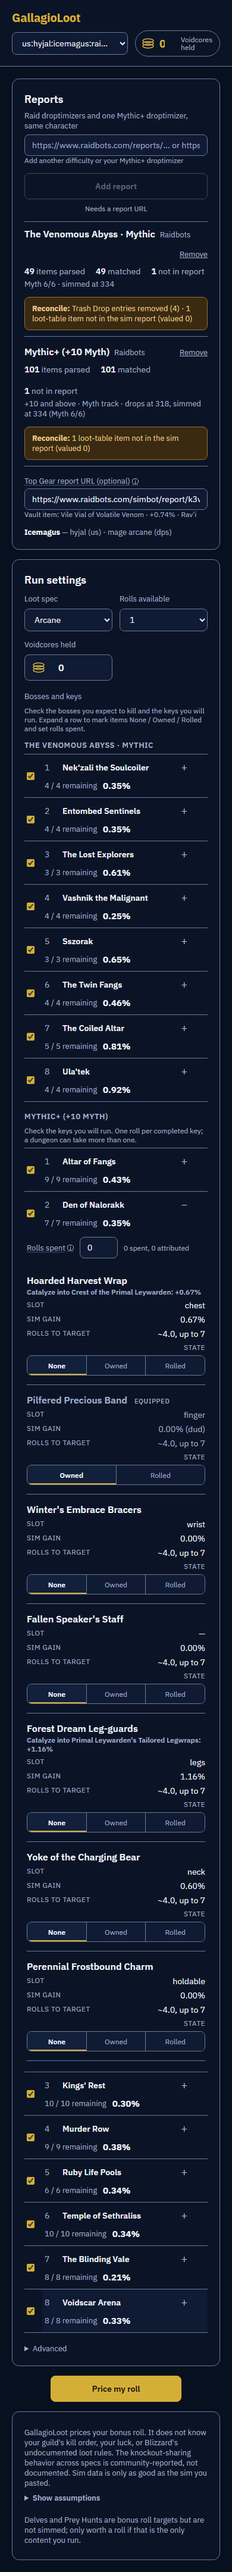
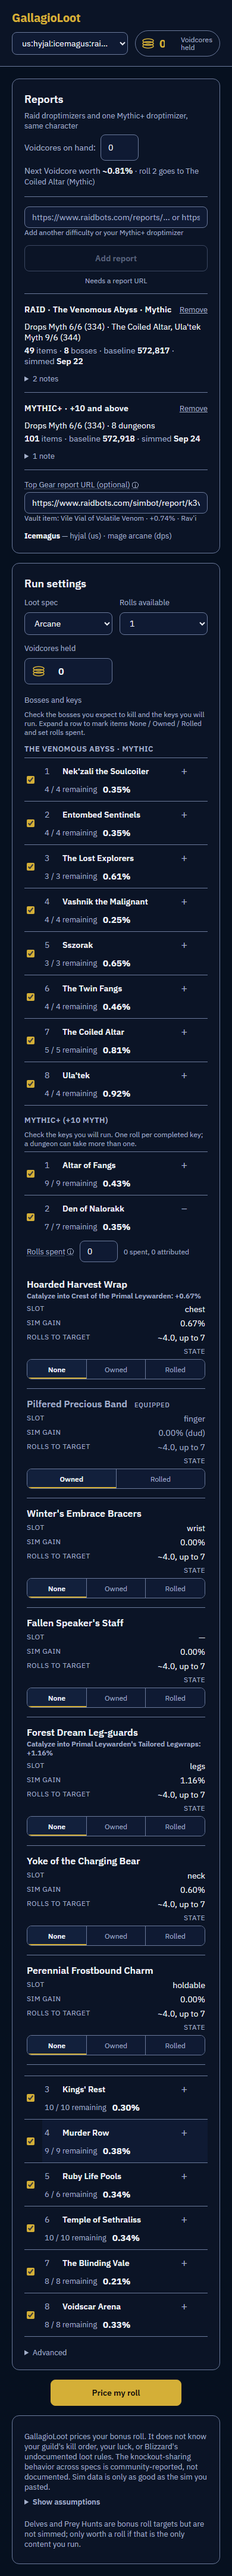
v2.08: design fixtures + shots (Reports panel 1280/390 layout assertions), live check for the new panel, docs

diff --git a/README.md b/README.md
@@ -204,6 +204,7 @@ type NormalizedReport = {
   contentType: 'raid' | 'dungeon' | 'other'
   difficulty: string
   baseline: number              // absolute dps/hps of the equipped set
+  simmedAt?: string             // ISO 8601 sim date: Raidbots data.json `Last-Modified` header (the payload has no date), QE Live `timeCreated`
   instanceId?: number
   instanceName?: string
   items: NormalizedItem[]
@@ -219,6 +220,7 @@ type NormalizedReport = {
     upgradeMax?: number         // (6)
     upgradeFullName?: string    // "Myth 6/6"
     atMaxUpgrade?: boolean      // false -> report gets a "not simmed at max upgrade" warning
+    upgradeLabelsByIlvl?: Record<string, string> // the report's own label per item level: { "334": "Myth 6/6", "344": "Myth 9/6" }
   }
 }
 
@@ -261,6 +263,8 @@ type NormalizedItem = {
 - Each dungeon becomes one roll target: `NormalizedItem.encounterId` = dungeon id, `instanceId` = `-1`, `encounterName` = dungeon name, `NormalizedReport.targetKind = 'mplus'`. This matches `/loot-table/-1`, which already returns the 8 dungeons as pseudo-encounters (80 items at Arcane). A single-dungeon Raidbots report (rows with a real positive dungeon id) is normalized to the same shape.
 - There is no key-level field anywhere except `itemLibrary[].overrides.difficulty` (an object on M+ reports, a plain string on raid reports): `{ name: "+10 Vault", keyLevels: [10, 999], itemLevelOverride: 318, ... }`. The report sims every item at the chosen upgrade step (`itemLibrary[].upgrade = { name: "Myth", level: 6, max: 6, fullName: "Myth 6/6", itemLevel: 334 }`), not the 318 drop level. The UI labels this "+10 (Myth)", never "Weekly10".
 - **Max upgrade**: every report is expected to be simmed at max upgrade of its track (anything below is treated as noise). `track.atMaxUpgrade` is false when any upgradeable itemLibrary entry has `level < max`, and the report gets a warning. QE Live reports carry no upgrade info (`track` undefined, no warning).
+- **Per-boss drop step (v2.08, verified on 6PTZ7TjgU8PdxJhZ97bMUa and a8URThoNZqEXDW3tBtavHq).** Drop ilvl is per target, read off the profileset rows (`summarizeDrops` in `src/core/drops.ts`: max row `ilvl` per encounter/dungeon; nothing is hardcoded per season). On the Mythic raid fixture six bosses' rows are all 334 and **The Coiled Altar and Ula'tek's are all 344**; the M+ fixture is 334 in all 8 dungeons. The label comes from the report's itemLibrary: the 334 entries carry `upgrade: { level: 6, max: 6, fullName: "Myth 6/6" }`; the 344 entries carry **no `upgrade` object**, only `overrides.itemLevel: "Myth 9"` (no `/max`). `parseTrackInfo` reads that label as a step too (a label with no max borrows the track's, so `upgradeLabelsByIlvl["344"] = "Myth 9/6"`), which is what keeps a step past max from being mis-parsed or tripping the "not at max upgrade" warning (9 >= 6); a label-only step below max (e.g. "Myth 3") still warns. The Heroic + Mythic pair is legal: the same items at 334 on the first six bosses, so near-identical EVs are correct, and each difficulty is its own target set with its own knockout state.
+- **Sim date (v2.08).** Neither Raidbots payload carries a date. `NormalizedReport.simmedAt` is the `Last-Modified` header of `data.json` (the file is written when the sim finishes; 6PTZ7 = Tue, 22 Sep 2026 20:14:38 GMT, a8URT = Fri, 25 Sep 2026 01:39:28 GMT), passed into the pure normalizer by the Worker. QE Live's payload has `timeCreated` (RFC 7231). The UI shows the date in the viewer's local timezone. `REPORT_CACHE_VERSION` is 3.
 
 ### QE Live `getUpgradeReport.php`
 
@@ -347,6 +351,8 @@ A hand-maintained, static table of all 40 current WoW specs (`{ specId, specName
 ---
 
 ## Decision engine
+
+**Next Voidcore (v2.08).** `nextRollValue(bossEvals, settings)` in `src/core/rank.ts` is the EV of ONE MORE roll this week beyond `settings.rollsAvailable`, under `recommend`'s allocation rules (deployable targets; a raid target takes one roll per week, a Mythic+ target repeats): the (N+1)th roll goes to the best target that can still take it, valued at that target's own EV (uniform draw, so every roll on a target is worth its mean). Null when no target can take another (e.g. every deployable raid boss holds a roll and no M+ target is in play). "Rolls currently available" is the Rolls available setting, not Voidcores held (the latter is display-only). The Reports panel shows it with a "Voidcores on hand" input bound to the same Voidcores-held setting.
 
 **Equipped gear (v2.06, corrected v2.07).** `NormalizedReport.equippedItemIds` (Raidbots only) lists the item ids equipped in the sim profile. A pool entry whose item id is in it gets `equipped: true`. It defaults to Owned (value-0 dud, still in the denominator, `autoOwned: true`) only when the sim does not show it as an upgrade: no sim row, or best delta (catalyst credit included) <= 0. With a positive delta the drop copy is the better one, so it keeps its value, defaults to None and gets `equippedUpgrade: true` (UI label "Equipped (lower ilvl)", all three states offered). The sim delta is the source of truth; no separate item-level comparison. A stored knockout entry always wins, and the default is never persisted. Matched by item id only -- no ring/trinket pair reasoning.
 

diff --git a/CLAUDE.md b/CLAUDE.md
@@ -40,4 +40,5 @@ Hard rules for the `web/` UI (Cloudflare Worker static site, see `web/CLAUDE.md`
 - Mythic+ droptimizers (aggregate instance -1, every row `-1/-1/...`) are attributed to dungeons via the itemLibrary sources join; each dungeon is a repeatable `mplus` target. Several reports (raid difficulties + one M+) can be ranked together (`src/core/targets.ts`, `src/core/reportSet.ts`); catalyst rows credit their source item at max(own, catalyzed). See README.md "Raidbots Mythic+ droptimizer" and "Decision engine".
 - **Curio is not a bonus-roll outcome** (Erick's Adventure Journal ruling, 2026-09-24; supersedes the earlier "Curio is one pool entry" rule): Ula'tek's Slumbering Coil Curio (tier seed 2895, `viaCurio` rows) can't be won with a bonus roll, so it is never a `PoolEntry` -- not in the pool, the denominator, best case, rolls-to-target or knockout (`src/core/pool.ts`, `src/core/curio.ts`). Catalyst credit for real items is unchanged. The web UI hides the curio row and notes why under Ula'tek's table; stored knockout entries that reference it are ignored on load and dropped on save.
 - **Equipped gear is auto-Owned only when it isn't a sim upgrade** (v2.06, corrected v2.07): Raidbots reports carry the sim profile's equipped gear (`rawFormData.droptimizer.equipped`); `NormalizedReport.equippedItemIds` holds its item ids (`src/normalize/equipped.ts`; QE Live's payload has none). `buildBossPools` marks a pool entry whose itemId is equipped `PoolEntry.equipped`, and treats it as Owned (a value-0 dud, `autoOwned`) unless the knockout state has an entry of its own **or the sim shows an upgrade** (best delta incl. catalyst credit > 0; the drop copy is then a higher item level than the worn one). Upgrades keep their value, default to None and set `equippedUpgrade`; the web UI labels them "Equipped (lower ilvl)" and offers None / Owned / Rolled, while auto-Owned rows say "Equipped" and offer Owned / Rolled. The sim delta is the source of truth (no ilvl comparison). The default is never stored. Matches by itemId alone (no ring/trinket unique-equip reasoning).
+- **Per-report drops and the Reports panel (v2.08)**: each report shows as one compact block (`web/src/components/ReportBlock.tsx`): heading + Remove, a drop line (`Drops Myth 6/6 (334) · The Coiled Altar, Ula'tek Myth 9/6 (344)`, from `summarizeDrops`/`formatDropLine` in `src/core/drops.ts`, read off the report's own rows and item labels, never hardcoded per boss), then items / bosses / baseline / sim date (`NormalizedReport.simmedAt` = Raidbots `data.json` `Last-Modified`, QE Live `timeCreated`). Warnings collapse under an "N notes" toggle, open by default only for an error. A once-per-panel strip shows "Voidcores on hand" (the Voidcores-held setting) and "Next Voidcore worth ~X%" (`nextRollValue` in `src/core/rank.ts`: the (rollsAvailable+1)th roll under the same allocation rules). The 344 rows carry only `overrides.itemLevel: "Myth 9"` (no `upgrade` object); `parseTrackInfo` treats that as a step past max ("Myth 9/6"), never a max-upgrade warning.
 - CORS: `https://gallagioloot.icehunter.net` (configurable via `wrangler.toml [vars] ALLOWED_ORIGIN`) plus `http://localhost:*` for dev.

diff --git a/DEPLOY.md b/DEPLOY.md
@@ -39,7 +39,7 @@ npx wrangler deploy        # uses web/wrangler.toml, uploads dist/
 
 ## Smoke test
 
-**Run `npm run check:live` (in `web/`) after every deploy** — it drives the live site at 1280px and 390px with a real raid droptimizer + Mythic+ droptimizer + Top Gear report and asserts (PASS/FAIL per check, non-zero exit on any failure) the parse lines, the M+ section, target EVs, Ula'tek's 4-item pool (4 / 4, no Curio row, the curio note), the 1-roll kill-order card (Ula'tek or The Coiled Altar, Voidcore 0.92% vs the Vial 0.74%) and its no-saved-rolls explanation, the 2-roll Voidcore verdict (1.73%), the spec-specific pill, and layout (screenshots/JSON land gitignored in `web/design/live-single-page-*`).
+**Run `npm run check:live` (in `web/`) after every deploy** — it drives the live site at 1280px and 390px with a real raid droptimizer + Mythic+ droptimizer + Top Gear report and asserts (PASS/FAIL per check, non-zero exit on any failure) the compact report blocks (drop line with the Myth 9/6 (344) exception on the Mythic raid, sim dates, the closed "N notes" toggle, Voidcores on hand mirrored with Run settings, the "Next Voidcore worth ~X%" line), the M+ section, target EVs, Ula'tek's 4-item pool (4 / 4, no Curio row, the curio note), the 1-roll kill-order card (Ula'tek or The Coiled Altar, Voidcore 0.92% vs the Vial 0.74%) and its no-saved-rolls explanation, the 2-roll Voidcore verdict (1.73%), the spec-specific pill, and layout (screenshots/JSON land gitignored in `web/design/live-single-page-*`).
 
 ```bash
 cd web
